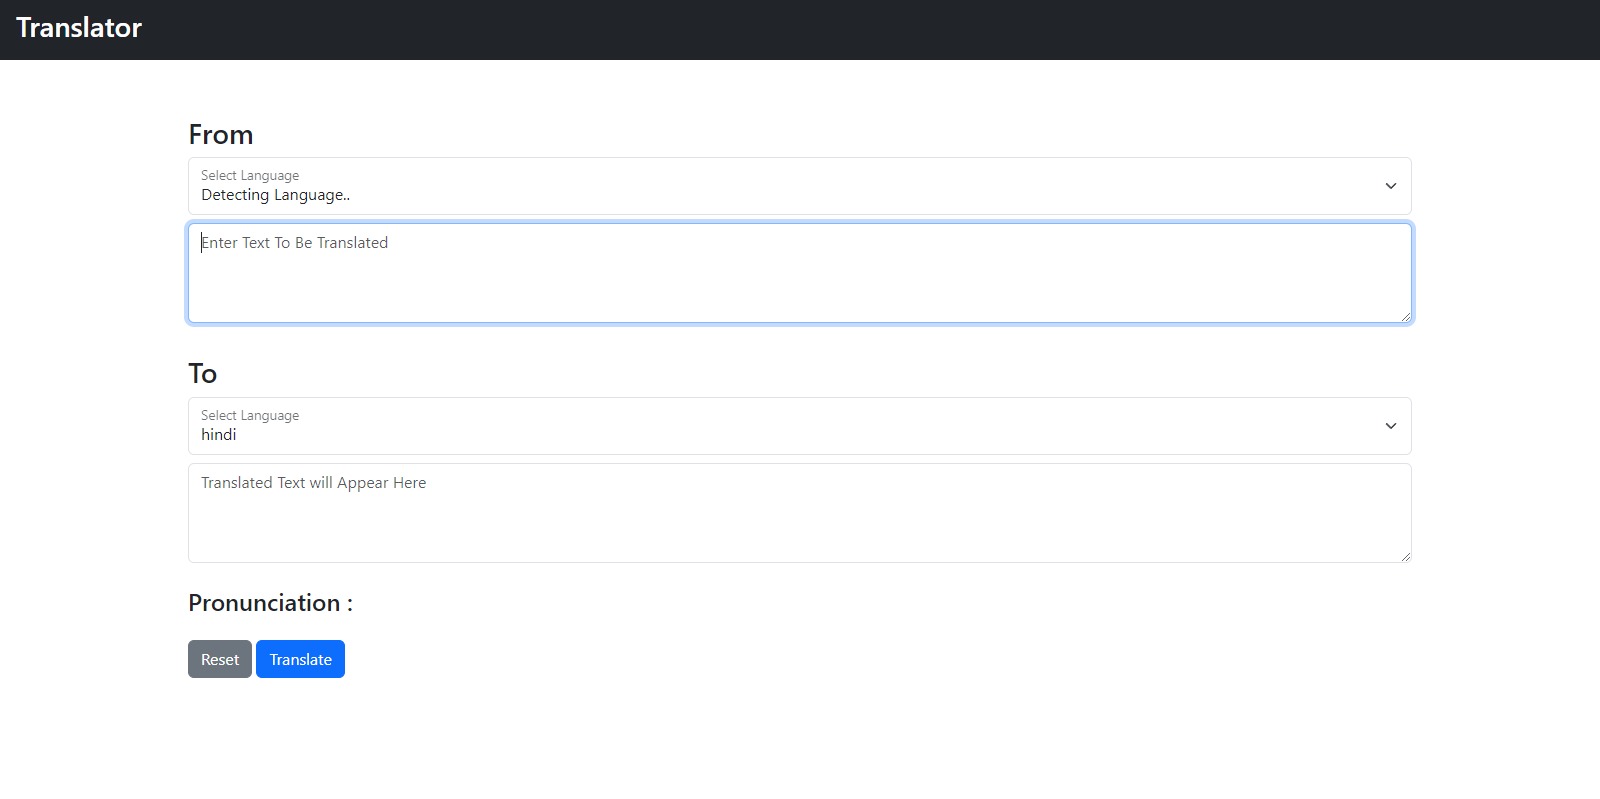
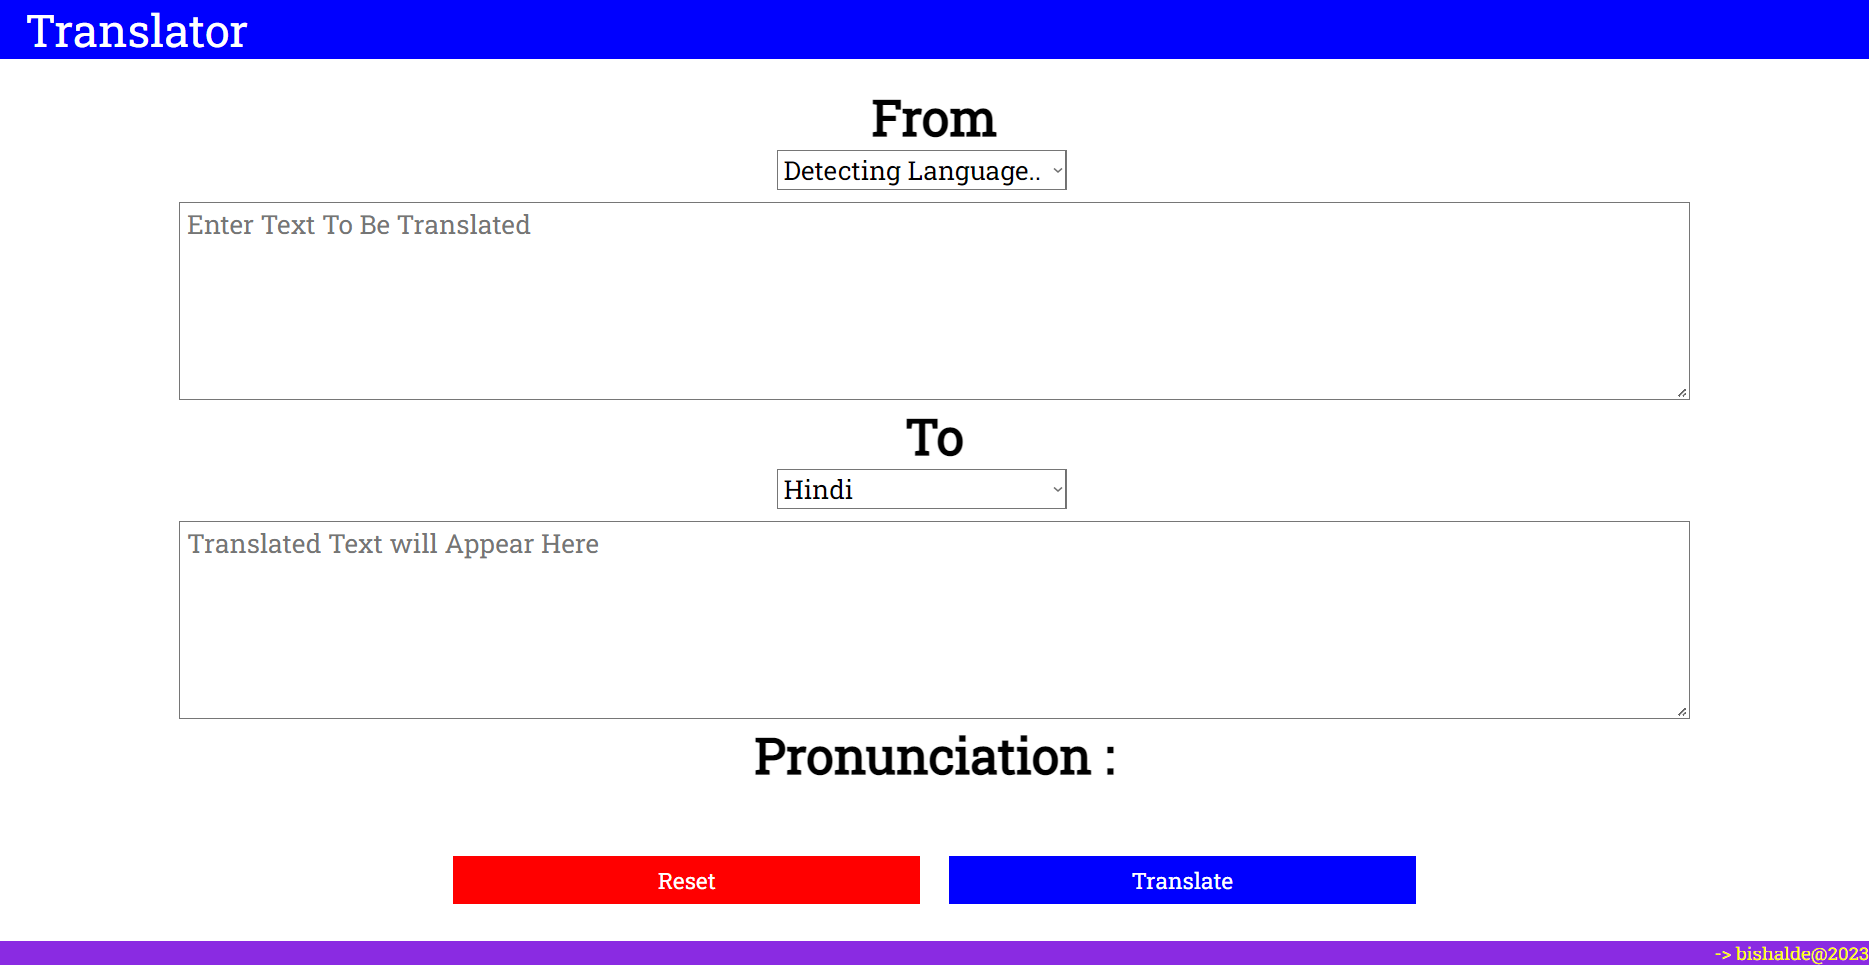
added new html files

diff --git a/templates/index.html b/templates/index.html
@@ -1,0 +1,75 @@
+<!DOCTYPE html>
+<html lang="en">
+  <head>
+    <meta charset="UTF-8" />
+    <meta http-equiv="X-UA-Compatible" content="IE=edge" />
+    <meta name="viewport" content="width=device-width, initial-scale=1.0" />
+    <title>Transalator</title>
+    <link rel="preconnect" href="https://fonts.googleapis.com" />
+    <link rel="preconnect" href="https://fonts.gstatic.com" crossorigin />
+    <link
+      href="https://fonts.googleapis.com/css2?family=Oswald:wght@600&display=swap"
+      rel="stylesheet"
+    />
+    <link href="https://fonts.googleapis.com/css2?family=Roboto+Slab&display=swap" rel="stylesheet">
+    <link
+      href="https://fonts.googleapis.com/css2?family=Sofia+Sans:wght@300&display=swap"
+      rel="stylesheet"
+    />
+    <link rel="stylesheet" href="/static/style.css" />
+  </head>
+  <body>
+  <header>
+    <a class="mainlogo" href="/">Translator</a>
+  </header>
+  <main>
+    <div class="content">
+        <form action="/" method="POST">
+              <h3 >From</h3>
+              <div >
+                <select id="floatingSelect" aria-label="Floating label select example" name="from_language">
+                  <option selected>{{data[0].title()}}</option>
+                  {% for lang in language %}
+                      <option value='{{lang}}'>{{lang.title()}}</option>
+                  {% endfor %}
+                </select>
+
+            </div>
+              <textarea
+                placeholder="Enter Text To Be Translated"
+                id="floatingTextarea2"
+                style="height: 100px"
+                name="from_textarea"
+                required autofocus
+              >{{ data[1] }}</textarea>
+              <br>
+              <div ></div>
+              <h3 >To</h3>
+              <div >
+                <select id="floatingSelect" aria-label="Floating label select example" name="to_language">
+                  <option selected>{{data[2].title()}}</option>
+                  {% for lang in language %}
+                      <option value='{{lang}}'>{{lang.title()}}</option>
+                  {% endfor %}
+                </select>
+            </div>
+              <textarea
+                placeholder="Translated Text will Appear Here"
+                id="floatingTextarea2"
+                style="height: 100px"
+                name="to_textarea"
+              >{{data[3]}}</textarea>
+              <br>
+              <h3>Pronunciation : </h3>
+              <h4>{{data[4].title()}}</h4>
+              <input class="btn reset" type="reset">
+              <button class="btn" type="submit">Translate</button>
+            </div>
+          </form>
+    </div>
+  </main>
+  <footer>
+    <p> -> bishalde@2023</p>
+  </footer>
+  </body>
+</html>

diff --git a/static/style.css b/static/style.css
@@ -1,0 +1,91 @@
+*{
+    background-color: white;
+    margin: 0%;
+    padding: 0%;
+    font-family: 'Roboto Slab', serif;
+
+}
+html{
+    font-size: 30px;
+}
+header{
+    background-origin: padding-box;
+    background-color: blue;
+    font-family: 'Oswald', sans-serif;
+}
+
+.mainlogo{
+    background-color: inherit;
+    color: white;
+    text-decoration: none;
+    font-size: 1.2rem;
+    margin: 10px 20px;
+}
+
+main{
+    margin: 20px 10px;
+    text-align: center;
+}
+
+main div{
+
+    font-size: 10px;
+}
+main div h3{
+    font-size: 40px;
+}
+
+main div select{
+    margin: 0px 10px 10px -10px;
+    font-size: .7rem;
+}
+
+main div textarea{
+    min-height: 20vh;
+    min-width: 80vw;
+    max-width: 80vw;
+    font-size: .7rem;
+    padding: 2px 5px;
+}
+
+.btn{
+    margin:10px 10px;
+    display: inline-block;
+    height: 5vh;
+    width: 25vw;
+    background-color: blue;
+    border: 0px;
+    color: white;
+    font-size: .6rem;
+    cursor: pointer;
+}
+.reset{
+    background-color: red;
+}
+.btn:hover{
+    background-color: cadetblue;
+    color: yellow;
+}
+
+main div h4{
+    font-family: 'Oswald', sans-serif;
+    text-align: justify;
+    font-size: .8rem;
+    color:blueviolet;
+    line-height: .95;
+    margin: 3% 10%;
+}
+
+footer{
+    display: block;
+    background-color: blueviolet;
+    height: 20px;
+
+}
+footer p{
+    color: yellow;
+    margin: 0px 0px 0px 10px;
+    background-color: inherit;
+    text-align: right;
+    font-size: .5rem;
+}

diff --git a/Web_App.py b/Web_App.py
@@ -24,11 +24,11 @@ def homepage():
             dest_txt=transalate(src,src_txt,dest).text
             pronun=transalate(src,src_txt,dest).pronunciation
             data=[src,src_txt,dest,dest_txt,pronun]
-            return render_template('homepage.html',language=language,data=data)
+            return render_template('index.html',language=language,data=data)
         except :
             return redirect("/")
     else:
         data=["Detecting Language..","","hindi","",""]
-        return render_template('homepage.html',language=language,data=data)
+        return render_template('index.html',language=language,data=data)
 
-app.run(debug=False)
+app.run(debug=True,host='0.0.0.0')
